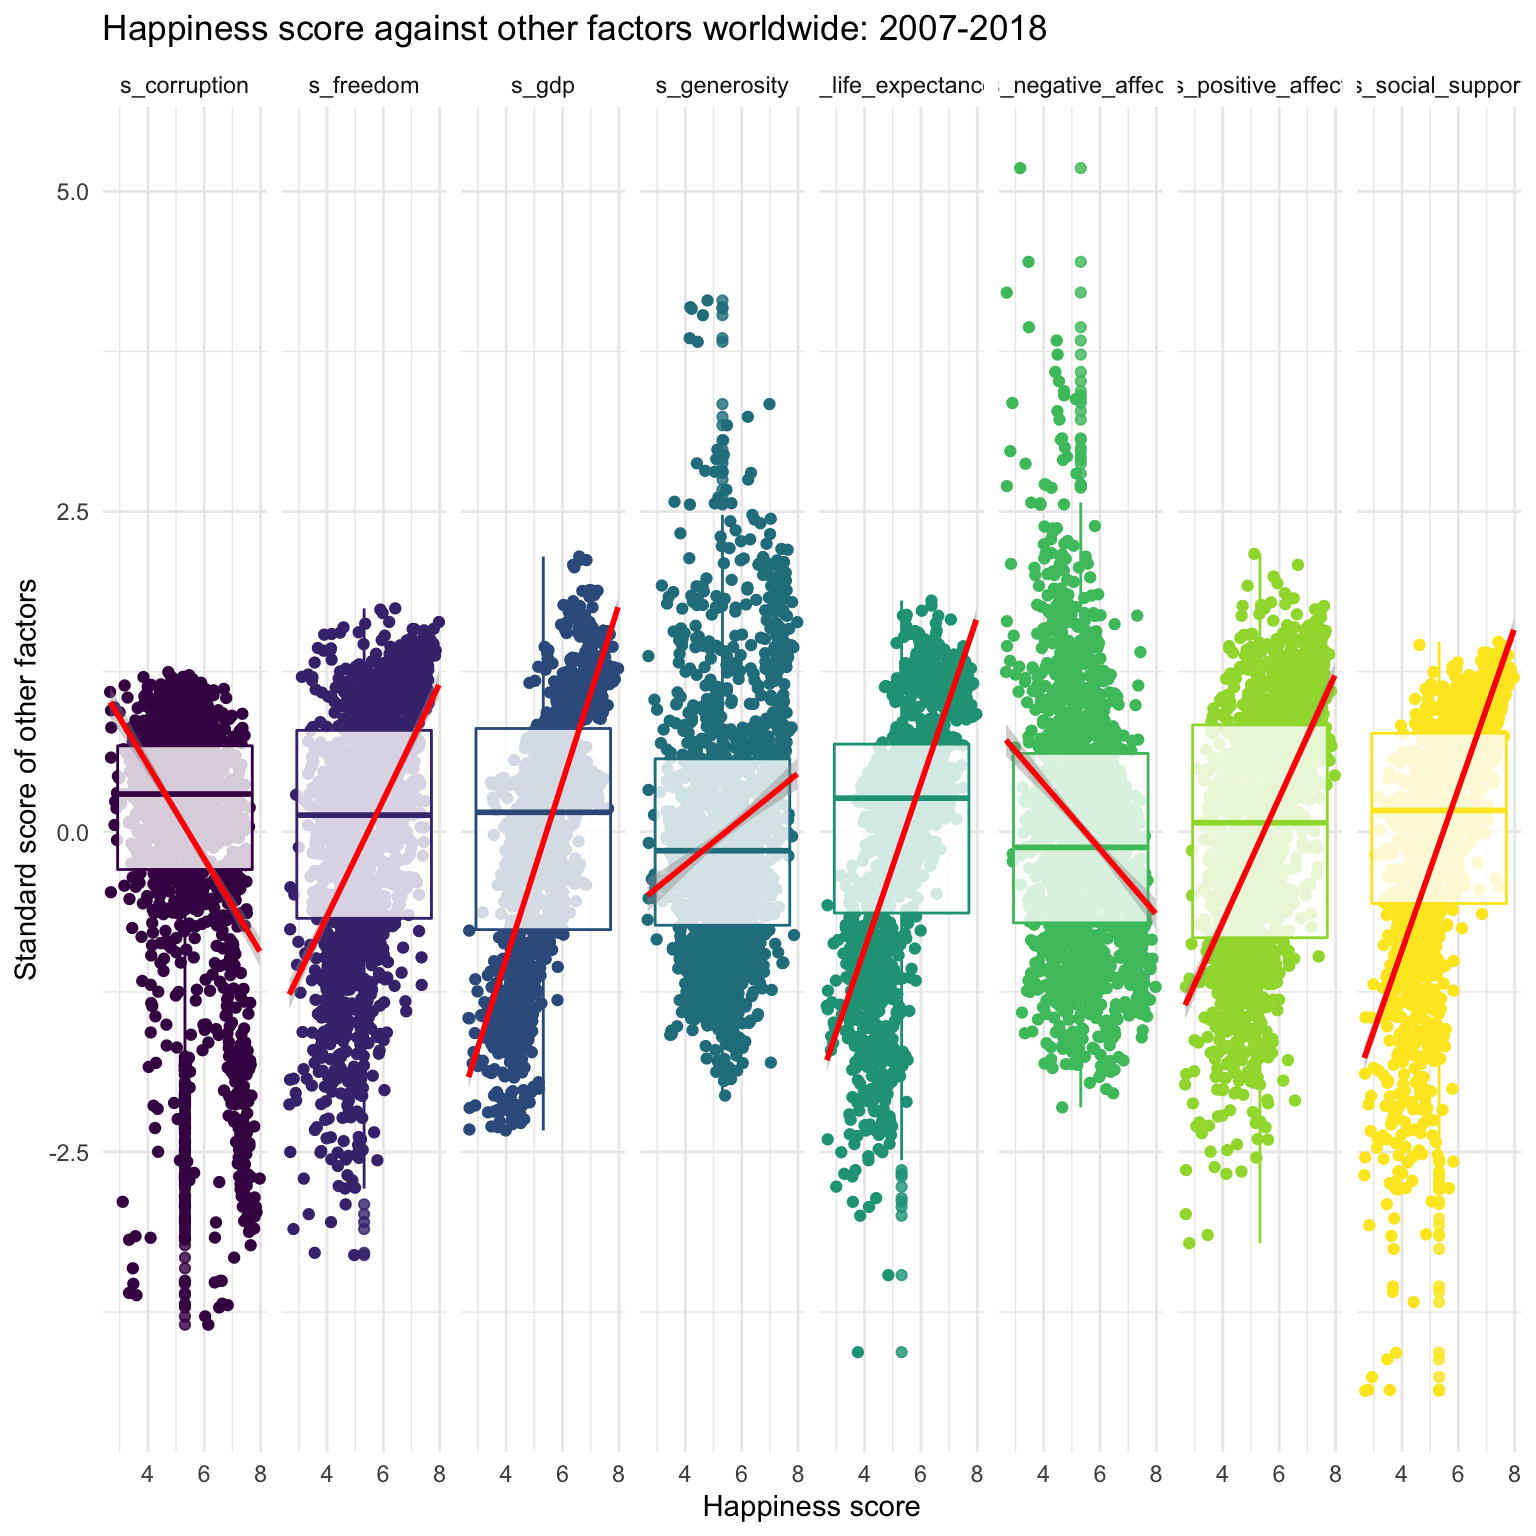
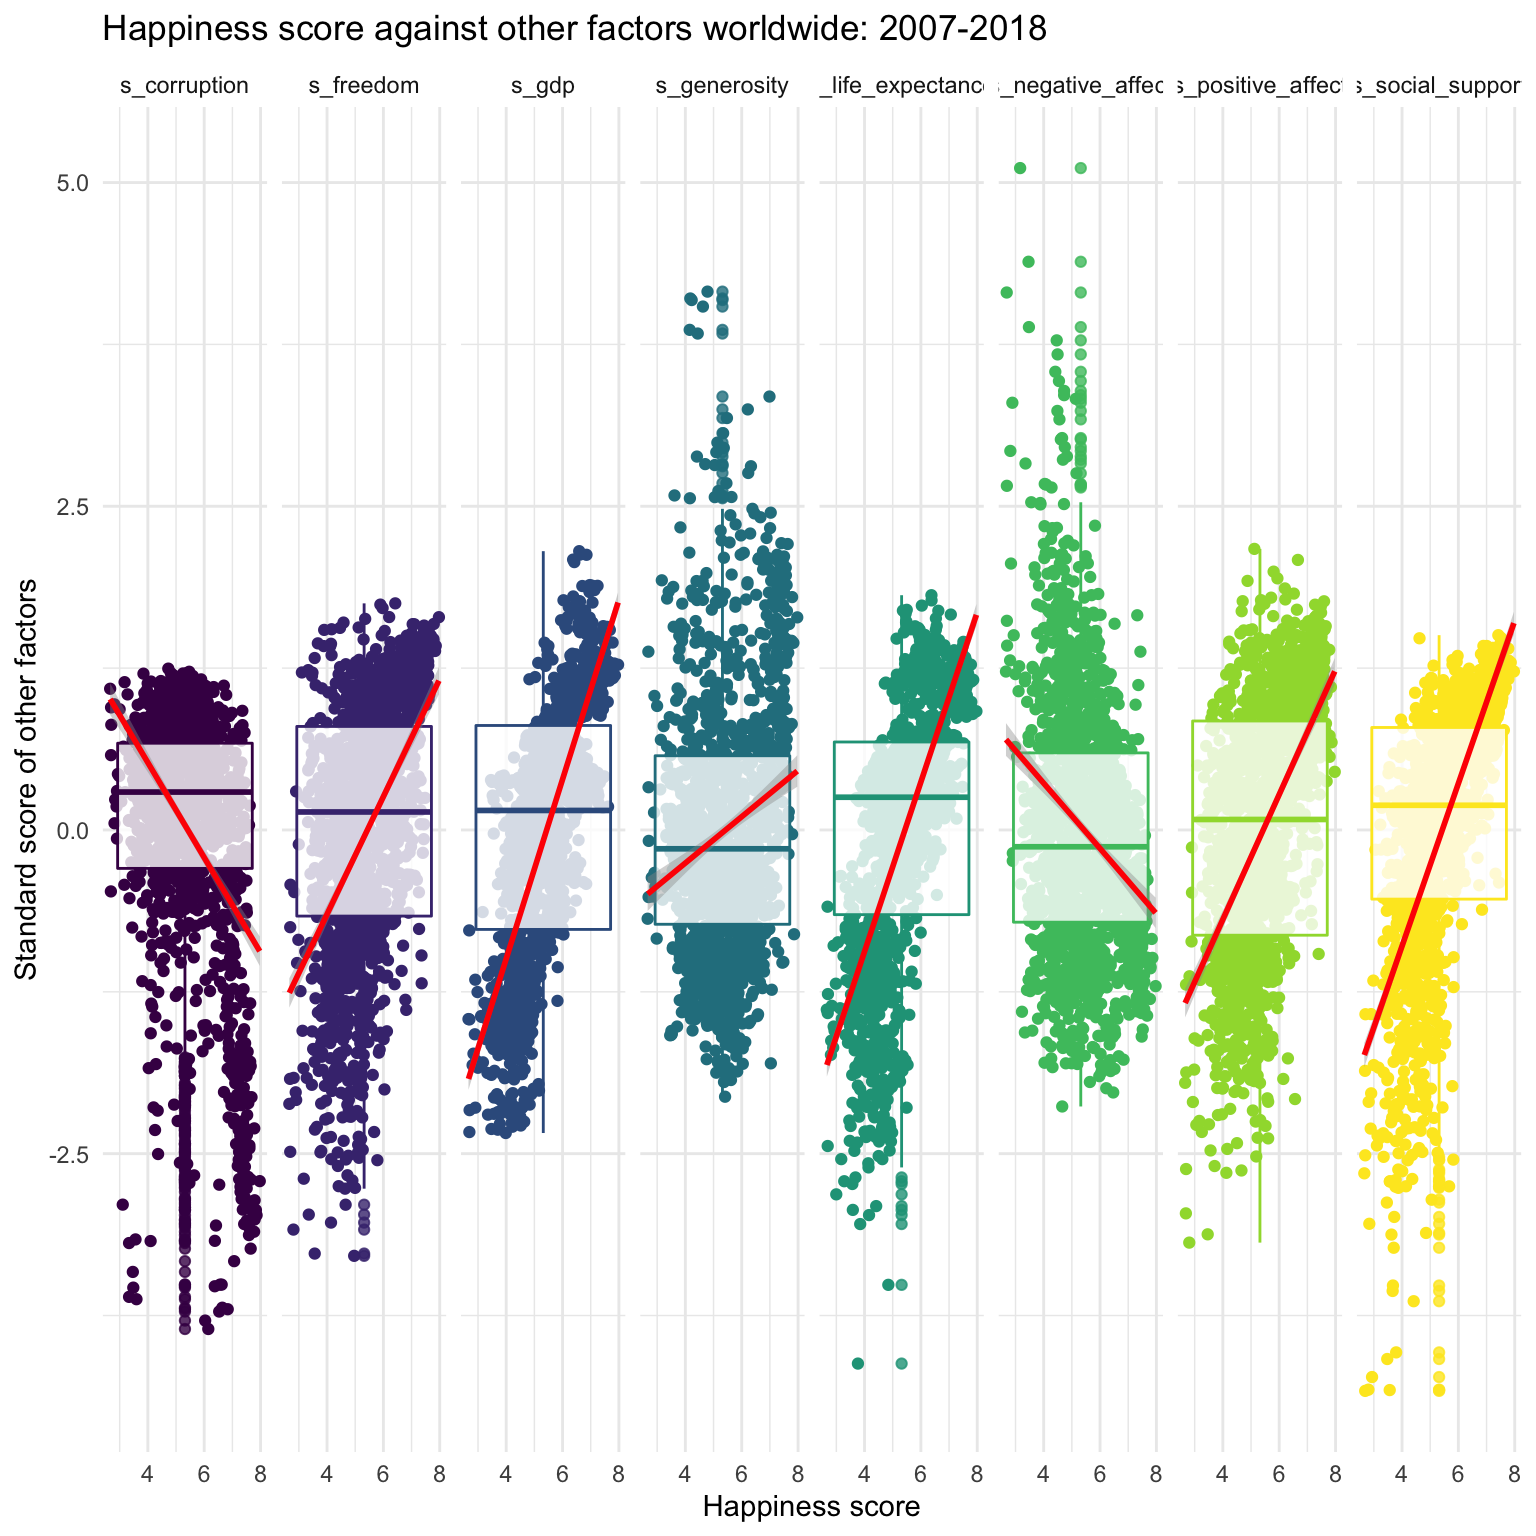
Add data tidying and renew final_data_all_country.csv

diff --git a/about.html b/about.html
@@ -423,8 +423,9 @@ color: black;
 </div>
 <div id="data" class="section level2">
 <h2>Data</h2>
-<p>We first save the crude dataset as “.xls” format from the website and read it into R and call it <code>data_all</code>. The crude data includes 1704 observations and 26 variables.</p>
-<p>After reviewing the whole dataset through checking the missing values in each variable, we decide to keep variables with the number of missing values less than 100. Finally we obtain 11 variables with 1704 observations without deleting any misssing values. Then we write the new tidyed data as <code>final_data_all_country.csv</code>, which is implemented for all the following works.</p>
+<p>We first save the crude dataset as “<code>.xls</code>” format from the website and read it into R and call it <code>data_all</code>. The crude data includes 1704 observations and 26 variables from 2005-2018 years, 165 countries.</p>
+<p>After reviewing the whole dataset through checking the missing values in each variable and in each year, we decide to keep variables with the number of missing values less than 100 and observations from 2007-2018.</p>
+<p>Finally we obtain 11 variables with 1588 observations from 164 countries without deleting any misssing values. Then we write the new tidyed data as <code>final_data_all_country.csv</code>, which is implemented for all the following works.</p>
 <p>In the original data, they use log to get the result of GDP, we try to transfer it back to the real scale. We divide these countries into developing and developed country by the criteria that some <a href="https://www.investopedia.com/updates/top-developing-countries/">economists</a> prefer to see a country with per capita GDP of at least $25,000 to be declared as developed.</p>
 <p>We add a new variable to distinguish the continent, because we want to see whether the association of happiness scores and other factors will change dependes on variaous continents.</p>
 <p>To better show the association of other factors and happiness score, we standardaize the value of other factors by substracting mean and devideing standard error. This is becasue the scale of <code>gdp</code> and <code>life_expectancy</code> are dramatically different from other factors.</p>
@@ -483,79 +484,79 @@ color: black;
 <tbody>
 <tr class="odd">
 <td align="left">(Intercept)</td>
-<td align="right">-4.352</td>
-<td align="right">0.684</td>
-<td align="right">-6.362</td>
+<td align="right">-4.234</td>
+<td align="right">0.712</td>
+<td align="right">-5.946</td>
 <td align="right">0.000</td>
 </tr>
 <tr class="even">
 <td align="left">freedom</td>
-<td align="right">0.216</td>
-<td align="right">0.143</td>
-<td align="right">1.511</td>
-<td align="right">0.131</td>
+<td align="right">0.189</td>
+<td align="right">0.147</td>
+<td align="right">1.285</td>
+<td align="right">0.199</td>
 </tr>
 <tr class="odd">
 <td align="left">negative_affect</td>
-<td align="right">0.160</td>
-<td align="right">0.203</td>
-<td align="right">0.788</td>
-<td align="right">0.431</td>
+<td align="right">0.189</td>
+<td align="right">0.209</td>
+<td align="right">0.902</td>
+<td align="right">0.367</td>
 </tr>
 <tr class="even">
 <td align="left">generosity</td>
-<td align="right">-0.112</td>
-<td align="right">0.105</td>
-<td align="right">-1.069</td>
-<td align="right">0.285</td>
+<td align="right">-0.127</td>
+<td align="right">0.109</td>
+<td align="right">-1.164</td>
+<td align="right">0.244</td>
 </tr>
 <tr class="odd">
 <td align="left">life_expectance</td>
 <td align="right">0.054</td>
 <td align="right">0.003</td>
-<td align="right">19.635</td>
+<td align="right">18.526</td>
 <td align="right">0.000</td>
 </tr>
 <tr class="even">
 <td align="left">positive_affect</td>
-<td align="right">2.327</td>
-<td align="right">0.189</td>
-<td align="right">12.295</td>
+<td align="right">2.358</td>
+<td align="right">0.196</td>
+<td align="right">12.059</td>
 <td align="right">0.000</td>
 </tr>
 <tr class="odd">
 <td align="left">corruption</td>
-<td align="right">-0.741</td>
-<td align="right">0.131</td>
-<td align="right">-5.638</td>
+<td align="right">-0.743</td>
+<td align="right">0.136</td>
+<td align="right">-5.461</td>
 <td align="right">0.000</td>
 </tr>
 <tr class="even">
 <td align="left">developdeveloping</td>
-<td align="right">2.450</td>
-<td align="right">0.679</td>
-<td align="right">3.609</td>
-<td align="right">0.000</td>
+<td align="right">2.303</td>
+<td align="right">0.705</td>
+<td align="right">3.265</td>
+<td align="right">0.001</td>
 </tr>
 <tr class="odd">
 <td align="left">social_support</td>
-<td align="right">6.169</td>
-<td align="right">0.687</td>
-<td align="right">8.986</td>
+<td align="right">6.053</td>
+<td align="right">0.713</td>
+<td align="right">8.485</td>
 <td align="right">0.000</td>
 </tr>
 <tr class="even">
 <td align="left">corruption:developdeveloping</td>
-<td align="right">0.935</td>
-<td align="right">0.195</td>
-<td align="right">4.807</td>
+<td align="right">0.961</td>
+<td align="right">0.201</td>
+<td align="right">4.790</td>
 <td align="right">0.000</td>
 </tr>
 <tr class="odd">
 <td align="left">developdeveloping:social_support</td>
-<td align="right">-4.039</td>
-<td align="right">0.705</td>
-<td align="right">-5.732</td>
+<td align="right">-3.907</td>
+<td align="right">0.733</td>
+<td align="right">-5.333</td>
 <td align="right">0.000</td>
 </tr>
 </tbody>
